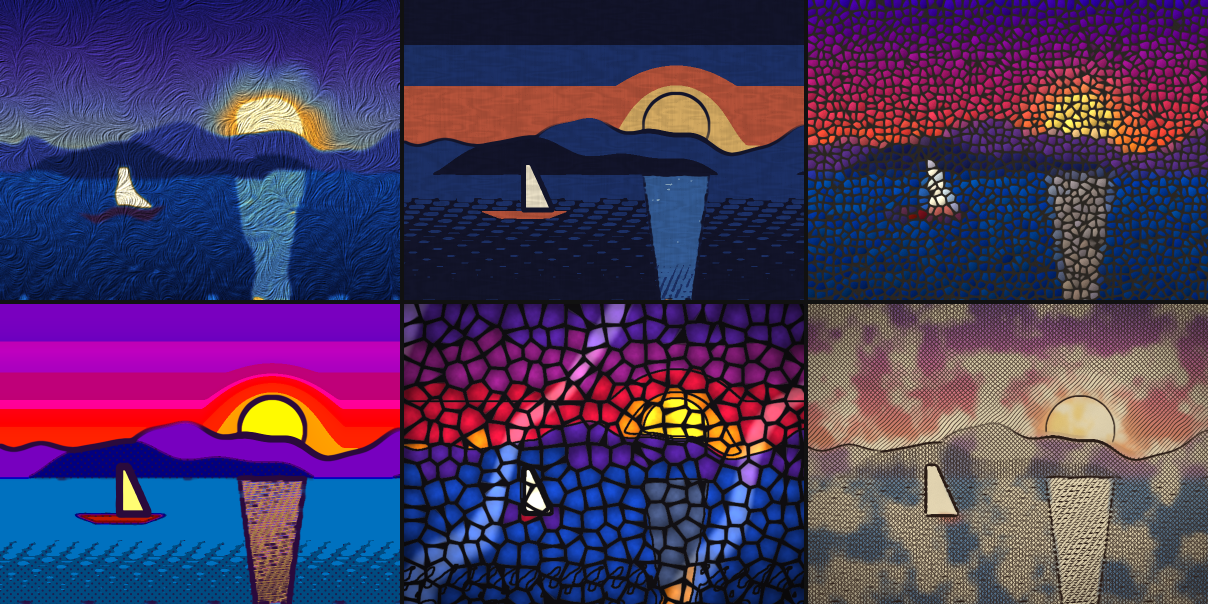
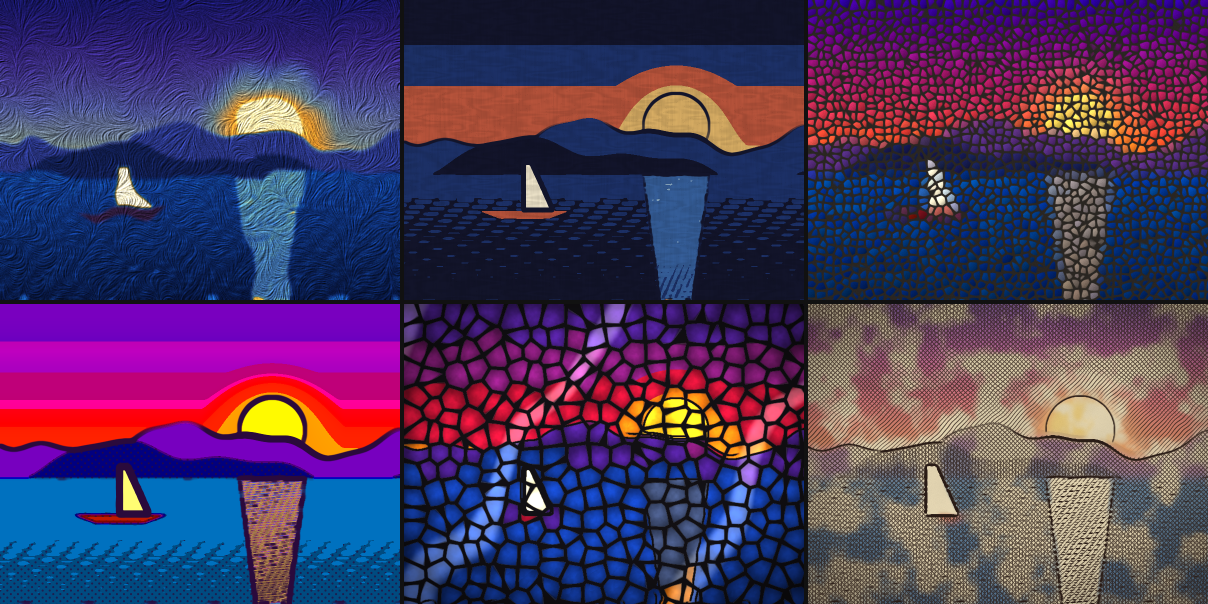
Run filters in a Web Worker and clean up stained-glass leading
- Filtering moves to a module worker via a small FilterRunner with
  cancellation (switching filters mid-render abandons the stale job)
  and a main-thread fallback when workers are unavailable or fail to load.
- Working resolution raised from 900 to 1200 px now that the page no
  longer freezes.
- Gothic: lead is only drawn on tonal boundaries with a real gradient,
  and slivers are folded into each cell's dominant piece, removing the
  wiggly lines on busy textures.

Claude-Session: https://claude.ai/code/session_01EqWPCJX1Nebrd12TiTbji2

diff --git a/src/app.js b/src/app.js
@@ -1,7 +1,8 @@
-import { FILTERS, applyFilter, buildPrompt } from './filters.js';
+import { FILTERS, buildPrompt } from './filters.js';
+import { Cancelled, FilterRunner } from './runner.js';
 import { sampleScene } from './sample.js';
 
-const MAX_SIDE = 900; // keeps filtering under ~1-2 s on a laptop
+const MAX_SIDE = 1200; // filtering runs in a worker; this caps per-filter time at a few seconds
 const THUMB = 140;
 
 const $ = (id) => document.getElementById(id);
@@ -14,10 +15,10 @@ const state = {
   filter: FILTERS[0].id,
   intensity: 1,
   seed: 1,
-  job: 0,
 };
 
-const nextFrame = () => new Promise((r) => requestAnimationFrame(() => setTimeout(r, 0)));
+const mainRunner = new FilterRunner();
+const thumbRunner = new FilterRunner();
 
 function toImageData(img) {
   return img instanceof ImageData ? img : new ImageData(img.data, img.width, img.height);
@@ -42,50 +43,53 @@ function draw(img) {
 
 async function render() {
   if (!state.source) return;
-  const job = ++state.job;
+  mainRunner.cancel();
   $('busy').hidden = false;
-  await nextFrame();
-  if (job !== state.job) return;
-  const out = applyFilter(state.filter, state.source, { intensity: state.intensity, seed: state.seed });
-  if (job !== state.job) return;
-  state.styled = out;
-  draw(out);
-  $('busy').hidden = true;
-}
-
-async function renderThumbs() {
-  if (!state.source) return;
-  const bitmap = document.createElement('canvas');
-  bitmap.width = state.source.width;
-  bitmap.height = state.source.height;
-  bitmap.getContext('2d').putImageData(toImageData(state.source), 0, 0);
-  // Center-square crop for the tiles.
-  const side = Math.min(bitmap.width, bitmap.height);
-  const sq = document.createElement('canvas');
-  sq.width = sq.height = THUMB;
-  sq.getContext('2d').drawImage(
-    bitmap, (bitmap.width - side) / 2, (bitmap.height - side) / 2, side, side, 0, 0, THUMB, THUMB,
-  );
-  const small = sq.getContext('2d').getImageData(0, 0, THUMB, THUMB);
-  const job = state.job;
-  for (const f of FILTERS) {
-    await nextFrame();
-    if (job !== state.job && state.job - job > 1) return; // a newer source arrived
-    const tile = document.querySelector(`[data-filter="${f.id}"] canvas`);
-    tile.getContext('2d').putImageData(toImageData(applyFilter(f.id, small, { seed: state.seed })), 0, 0);
+  try {
+    const out = await mainRunner.run(state.filter, state.source, { intensity: state.intensity, seed: state.seed });
+    state.styled = out;
+    draw(out);
+    $('busy').hidden = true;
+  } catch (err) {
+    if (err instanceof Cancelled) return; // a newer render took over
+    $('busy').hidden = true;
+    console.error(err);
   }
 }
 
-async function setSource(img) {
+function renderThumbs() {
+  if (!state.source) return;
+  thumbRunner.cancel();
+  const full = document.createElement('canvas');
+  full.width = state.source.width;
+  full.height = state.source.height;
+  full.getContext('2d').putImageData(toImageData(state.source), 0, 0);
+  // Center-square crop for the tiles.
+  const side = Math.min(full.width, full.height);
+  const sq = document.createElement('canvas');
+  sq.width = sq.height = THUMB;
+  sq.getContext('2d').drawImage(
+    full, (full.width - side) / 2, (full.height - side) / 2, side, side, 0, 0, THUMB, THUMB,
+  );
+  const small = sq.getContext('2d').getImageData(0, 0, THUMB, THUMB);
+  for (const f of FILTERS) {
+    thumbRunner.run(f.id, small, { intensity: 1, seed: state.seed }).then((out) => {
+      document.querySelector(`[data-filter="${f.id}"] canvas`).getContext('2d').putImageData(toImageData(out), 0, 0);
+    }, (err) => { if (!(err instanceof Cancelled)) console.error(err); });
+  }
+}
+
+function setSource(img) {
   state.source = img;
-  await render();
+  state.styled = null;
+  render();
   renderThumbs();
 }
 
 async function loadFile(file) {
   if (!file || !file.type.startsWith('image/')) return;
   const bitmap = await createImageBitmap(file);
-  await setSource(fitCanvasFromBitmap(bitmap, MAX_SIDE));
+  setSource(fitCanvasFromBitmap(bitmap, MAX_SIDE));
 }
 
 function updatePrompt() {
@@ -134,7 +138,8 @@ function wire() {
 
   $('reseed').addEventListener('click', () => {
     state.seed = (state.seed % 9973) + 1;
-    render().then(renderThumbs);
+    render();
+    renderThumbs();
   });
 
   const showOriginal = () => state.source && draw(state.source);

diff --git a/src/runner.js b/src/runner.js
@@ -1,0 +1,74 @@
+// Promise wrapper around the filter worker, with cancellation and a main-thread fallback
+// for browsers without module-worker support.
+import { applyFilter } from './filters.js';
+
+export class Cancelled extends Error {
+  constructor() { super('cancelled'); this.name = 'Cancelled'; }
+}
+
+export class FilterRunner {
+  constructor() {
+    this.seq = 0;
+    this.pending = new Map(); // id → { resolve, reject, args }
+    this.fallback = typeof Worker === 'undefined';
+    if (!this.fallback) this.spawn();
+  }
+
+  spawn() {
+    try {
+      this.worker = new Worker(new URL('./worker.js', import.meta.url), { type: 'module' });
+    } catch {
+      this.useFallback();
+      return;
+    }
+    this.worker.onmessage = ({ data }) => {
+      const job = this.pending.get(data.id);
+      if (!job) return;
+      this.pending.delete(data.id);
+      if (data.error) job.reject(new Error(data.error));
+      else job.resolve({ width: data.width, height: data.height, data: new Uint8ClampedArray(data.buffer) });
+    };
+    this.worker.onerror = (e) => {
+      e.preventDefault();
+      this.useFallback();
+    };
+  }
+
+  // Worker failed to load: finish every queued job on the main thread instead.
+  useFallback() {
+    this.fallback = true;
+    this.worker?.terminate();
+    this.worker = null;
+    const jobs = [...this.pending.values()];
+    this.pending.clear();
+    for (const { resolve, reject, args } of jobs) {
+      try { resolve(applyFilter(...args)); } catch (err) { reject(err); }
+    }
+  }
+
+  run(filter, img, opts) {
+    const args = [filter, img, opts];
+    if (this.fallback) {
+      // Yield a frame first so a "busy" indicator can paint.
+      return new Promise((r) => setTimeout(r, 16)).then(() => applyFilter(...args));
+    }
+    const id = ++this.seq;
+    const copy = img.data.slice();
+    return new Promise((resolve, reject) => {
+      this.pending.set(id, { resolve, reject, args });
+      this.worker.postMessage(
+        { id, filter, width: img.width, height: img.height, buffer: copy.buffer, intensity: opts.intensity, seed: opts.seed },
+        [copy.buffer],
+      );
+    });
+  }
+
+  // Abandon in-flight work (e.g. the user picked another filter mid-render).
+  cancel() {
+    if (this.fallback || this.pending.size === 0) return;
+    this.worker.terminate();
+    for (const { reject } of this.pending.values()) reject(new Cancelled());
+    this.pending.clear();
+    this.spawn();
+  }
+}

diff --git a/src/filters.js b/src/filters.js
@@ -489,17 +489,33 @@ function stainedGlass(src, { seed = 1 } = {}) {
   const seg = new Int32Array(n);
   for (let p = 0; p < n; p++) seg[p] = vor.index[p] * BANDS + Math.min(BANDS - 1, (tone[p] * BANDS) | 0);
   const segCount = vor.count * BANDS;
+  // Fold slivers (under ~8% of a cell) into the cell's dominant piece, so busy
+  // textures don't produce squiggly lead lines.
+  const area = new Int32Array(segCount);
+  for (let p = 0; p < n; p++) area[seg[p]]++;
+  const minArea = cell * cell * 0.08;
+  for (let p = 0; p < n; p++) {
+    if (area[seg[p]] >= minArea) continue;
+    const base = vor.index[p] * BANDS;
+    let best = base;
+    for (let b = 1; b < BANDS; b++) if (area[base + b] > area[best]) best = base + b;
+    seg[p] = best;
+  }
   const sums = new Float64Array(segCount * 4);
   for (let p = 0; p < n; p++) {
     const k = seg[p] * 4;
     sums[k] += rgb[p * 3]; sums[k + 1] += rgb[p * 3 + 1]; sums[k + 2] += rgb[p * 3 + 2]; sums[k + 3]++;
   }
   // Lead came: Voronoi borders plus every boundary between pieces.
+  // Only where tone really changes: a gentle gradient hovering at a band
+  // threshold would otherwise leave wiggly lead lines.
+  const toneEdge = sobel(tone, w, h);
   const split = new Float32Array(n);
   for (let y = 0; y < h; y++) {
     for (let x = 0; x < w; x++) {
       const p = y * w + x;
-      if ((x + 1 < w && seg[p + 1] !== seg[p]) || (y + 1 < h && seg[p + w] !== seg[p])) split[p] = 1;
+      const boundary = (x + 1 < w && seg[p + 1] !== seg[p]) || (y + 1 < h && seg[p + w] !== seg[p]);
+      if (boundary) split[p] = smoothstep(0.04, 0.1, toneEdge[p]);
     }
   }
   const splitLead = blur(dilate(split, w, h, 0.9 * s), w, h, 0.6, 1, 1);

diff --git a/src/worker.js b/src/worker.js
@@ -1,0 +1,12 @@
+// Runs filters off the main thread so the page stays responsive while painting.
+import { applyFilter } from './filters.js';
+
+self.onmessage = ({ data }) => {
+  const { id, filter, width, height, buffer, intensity, seed } = data;
+  try {
+    const out = applyFilter(filter, { width, height, data: new Uint8ClampedArray(buffer) }, { intensity, seed });
+    self.postMessage({ id, width, height, buffer: out.data.buffer }, [out.data.buffer]);
+  } catch (err) {
+    self.postMessage({ id, error: err.message });
+  }
+};

diff --git a/test/filters.test.js b/test/filters.test.js
@@ -49,3 +49,11 @@ test('PNG round-trip', () => {
   assert.equal(back.width, src.width);
   assert.deepEqual(back.data, src.data);
 });
+
+test('FilterRunner falls back to the main thread without Worker support', async () => {
+  const { FilterRunner } = await import('../src/runner.js');
+  const runner = new FilterRunner();
+  assert.equal(runner.fallback, true);
+  const out = await runner.run('mosaic', src, { intensity: 1, seed: 2 });
+  assert.deepEqual(out.data, applyFilter('mosaic', src, { seed: 2 }).data);
+});

diff --git a/README.md b/README.md
@@ -27,7 +27,7 @@ ES modules need to be served over HTTP:
 npm start
 ```
 
-Then open http://localhost:8080. You can upload, drag and drop, or paste an image, or start from the built-in sample. Pick a filter from the live thumbnail strip, set the intensity, hold **compare** to see the original, **re-roll** the strokes and tiles, and download a PNG. Images are scaled down to 900 px on the long side to keep things fast.
+Then open http://localhost:8080. You can upload, drag and drop, or paste an image, or start from the built-in sample. Pick a filter from the live thumbnail strip, set the intensity, hold **compare** to see the original, **re-roll** the strokes and tiles, and download a PNG. Filtering runs in a Web Worker so the page stays responsive, and a newer request cancels one still running. Images are scaled down to 1200 px on the long side. Browsers without module workers fall back to filtering on the main thread.
 
 ### Prompt builder
 
